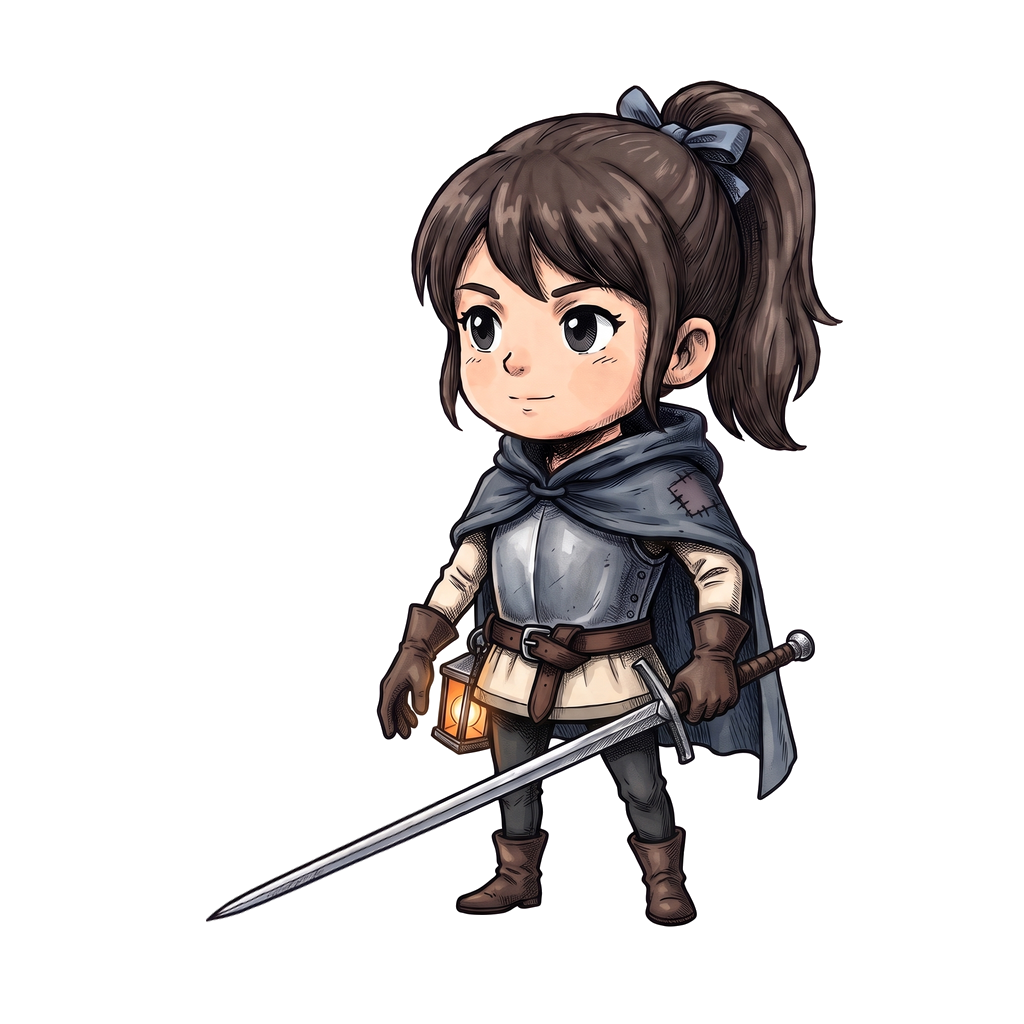
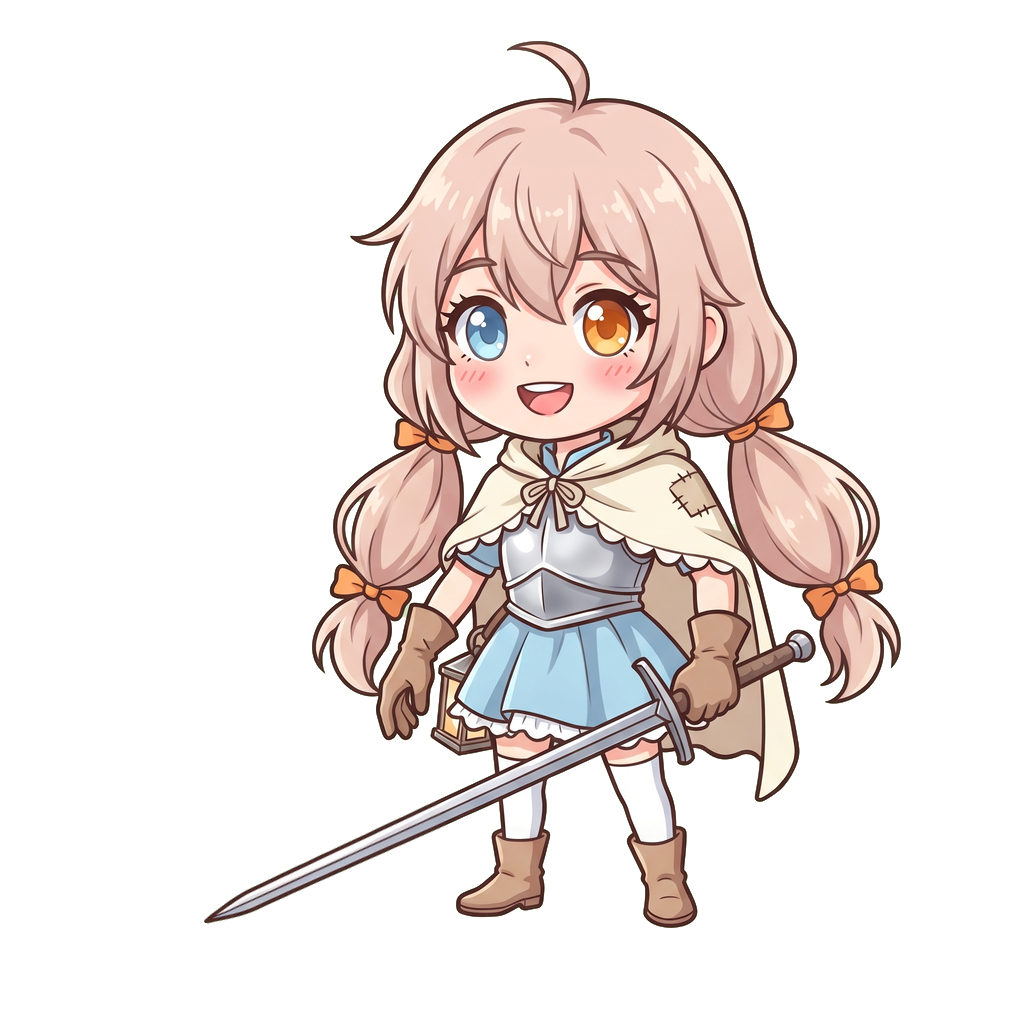
귀여운 여자 기사를 기본으로 적용, 남녀 비교 그림, 검은 말총머리 시안 보관
Claude-Session: https://claude.ai/code/session_019ctizXkAJK8e2QXDcDEkS2

Changed region(s): [[0.1875, 0.0312, 0.875, 0.9062]]

diff --git a/index.html b/index.html
@@ -306,7 +306,7 @@ const HEADS = [
 //   lanternPx: 허리 등불의 한가운데.  footPx: 두 발 사이의 x.  figurePx: 발끝에서 머리끝까지의 높이(화면 키 190에 맞춘다)
 const ARMORS = [
   { id:'basic', name:'기본', how:'처음부터', img:{ m:'art/knight/기본-남.png', f:'art/knight/기본-여.png' },
-    at:{ m:{ lanternPx:[458, 707], footPx:576, figurePx:878, eyesPx:[[477, 323], [601, 323]] }, f:{ lanternPx:[459, 711], footPx:576, figurePx:845, eyesPx:[[482, 330], [584, 330]] } }, ok:() => true },
+    at:{ m:{ lanternPx:[458, 707], footPx:576, figurePx:878, eyesPx:[[477, 323], [601, 323]] }, f:{ lanternPx:[452, 715], footPx:576, figurePx:886, eyesPx:[[482, 332], [603, 329]] } }, ok:() => true },
   { id:'armor2', name:'준비 중인 갑옷', how:'1구역 보스 처치', img:null, ok:() => false },
   { id:'armor3', name:'준비 중인 갑옷', how:'업적 · 이벤트', img:null, ok:() => false },
 ];
